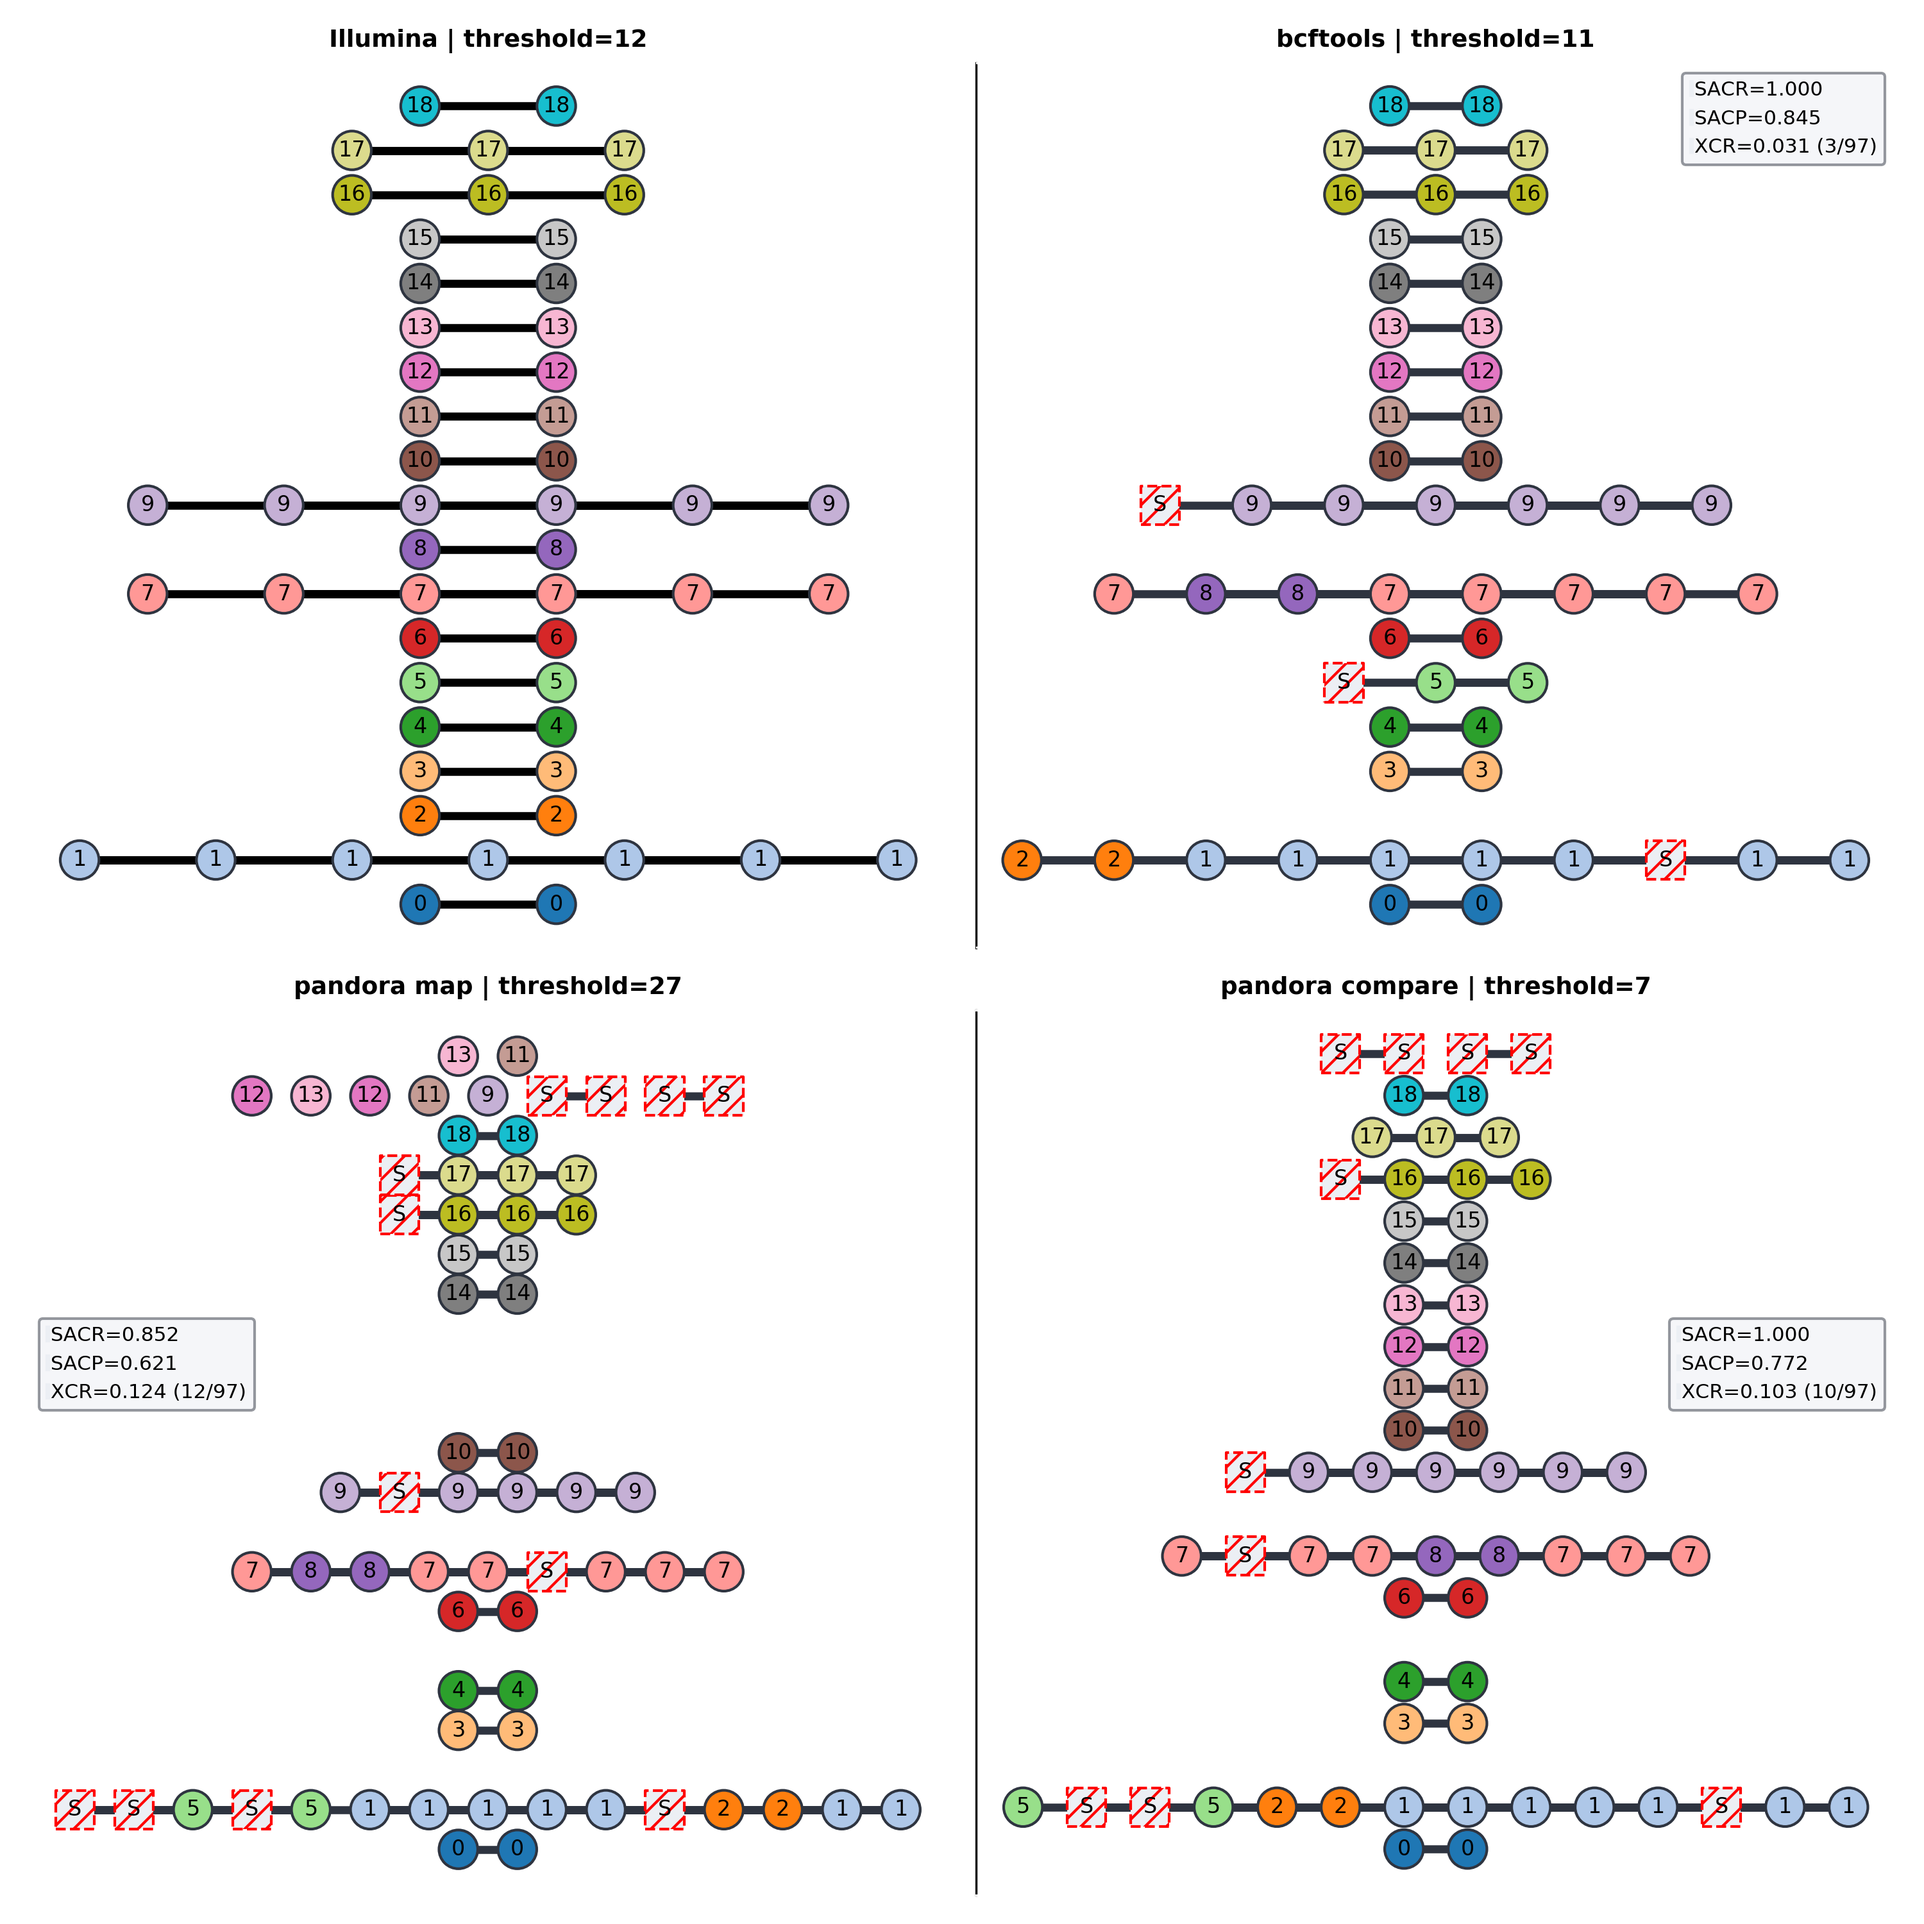
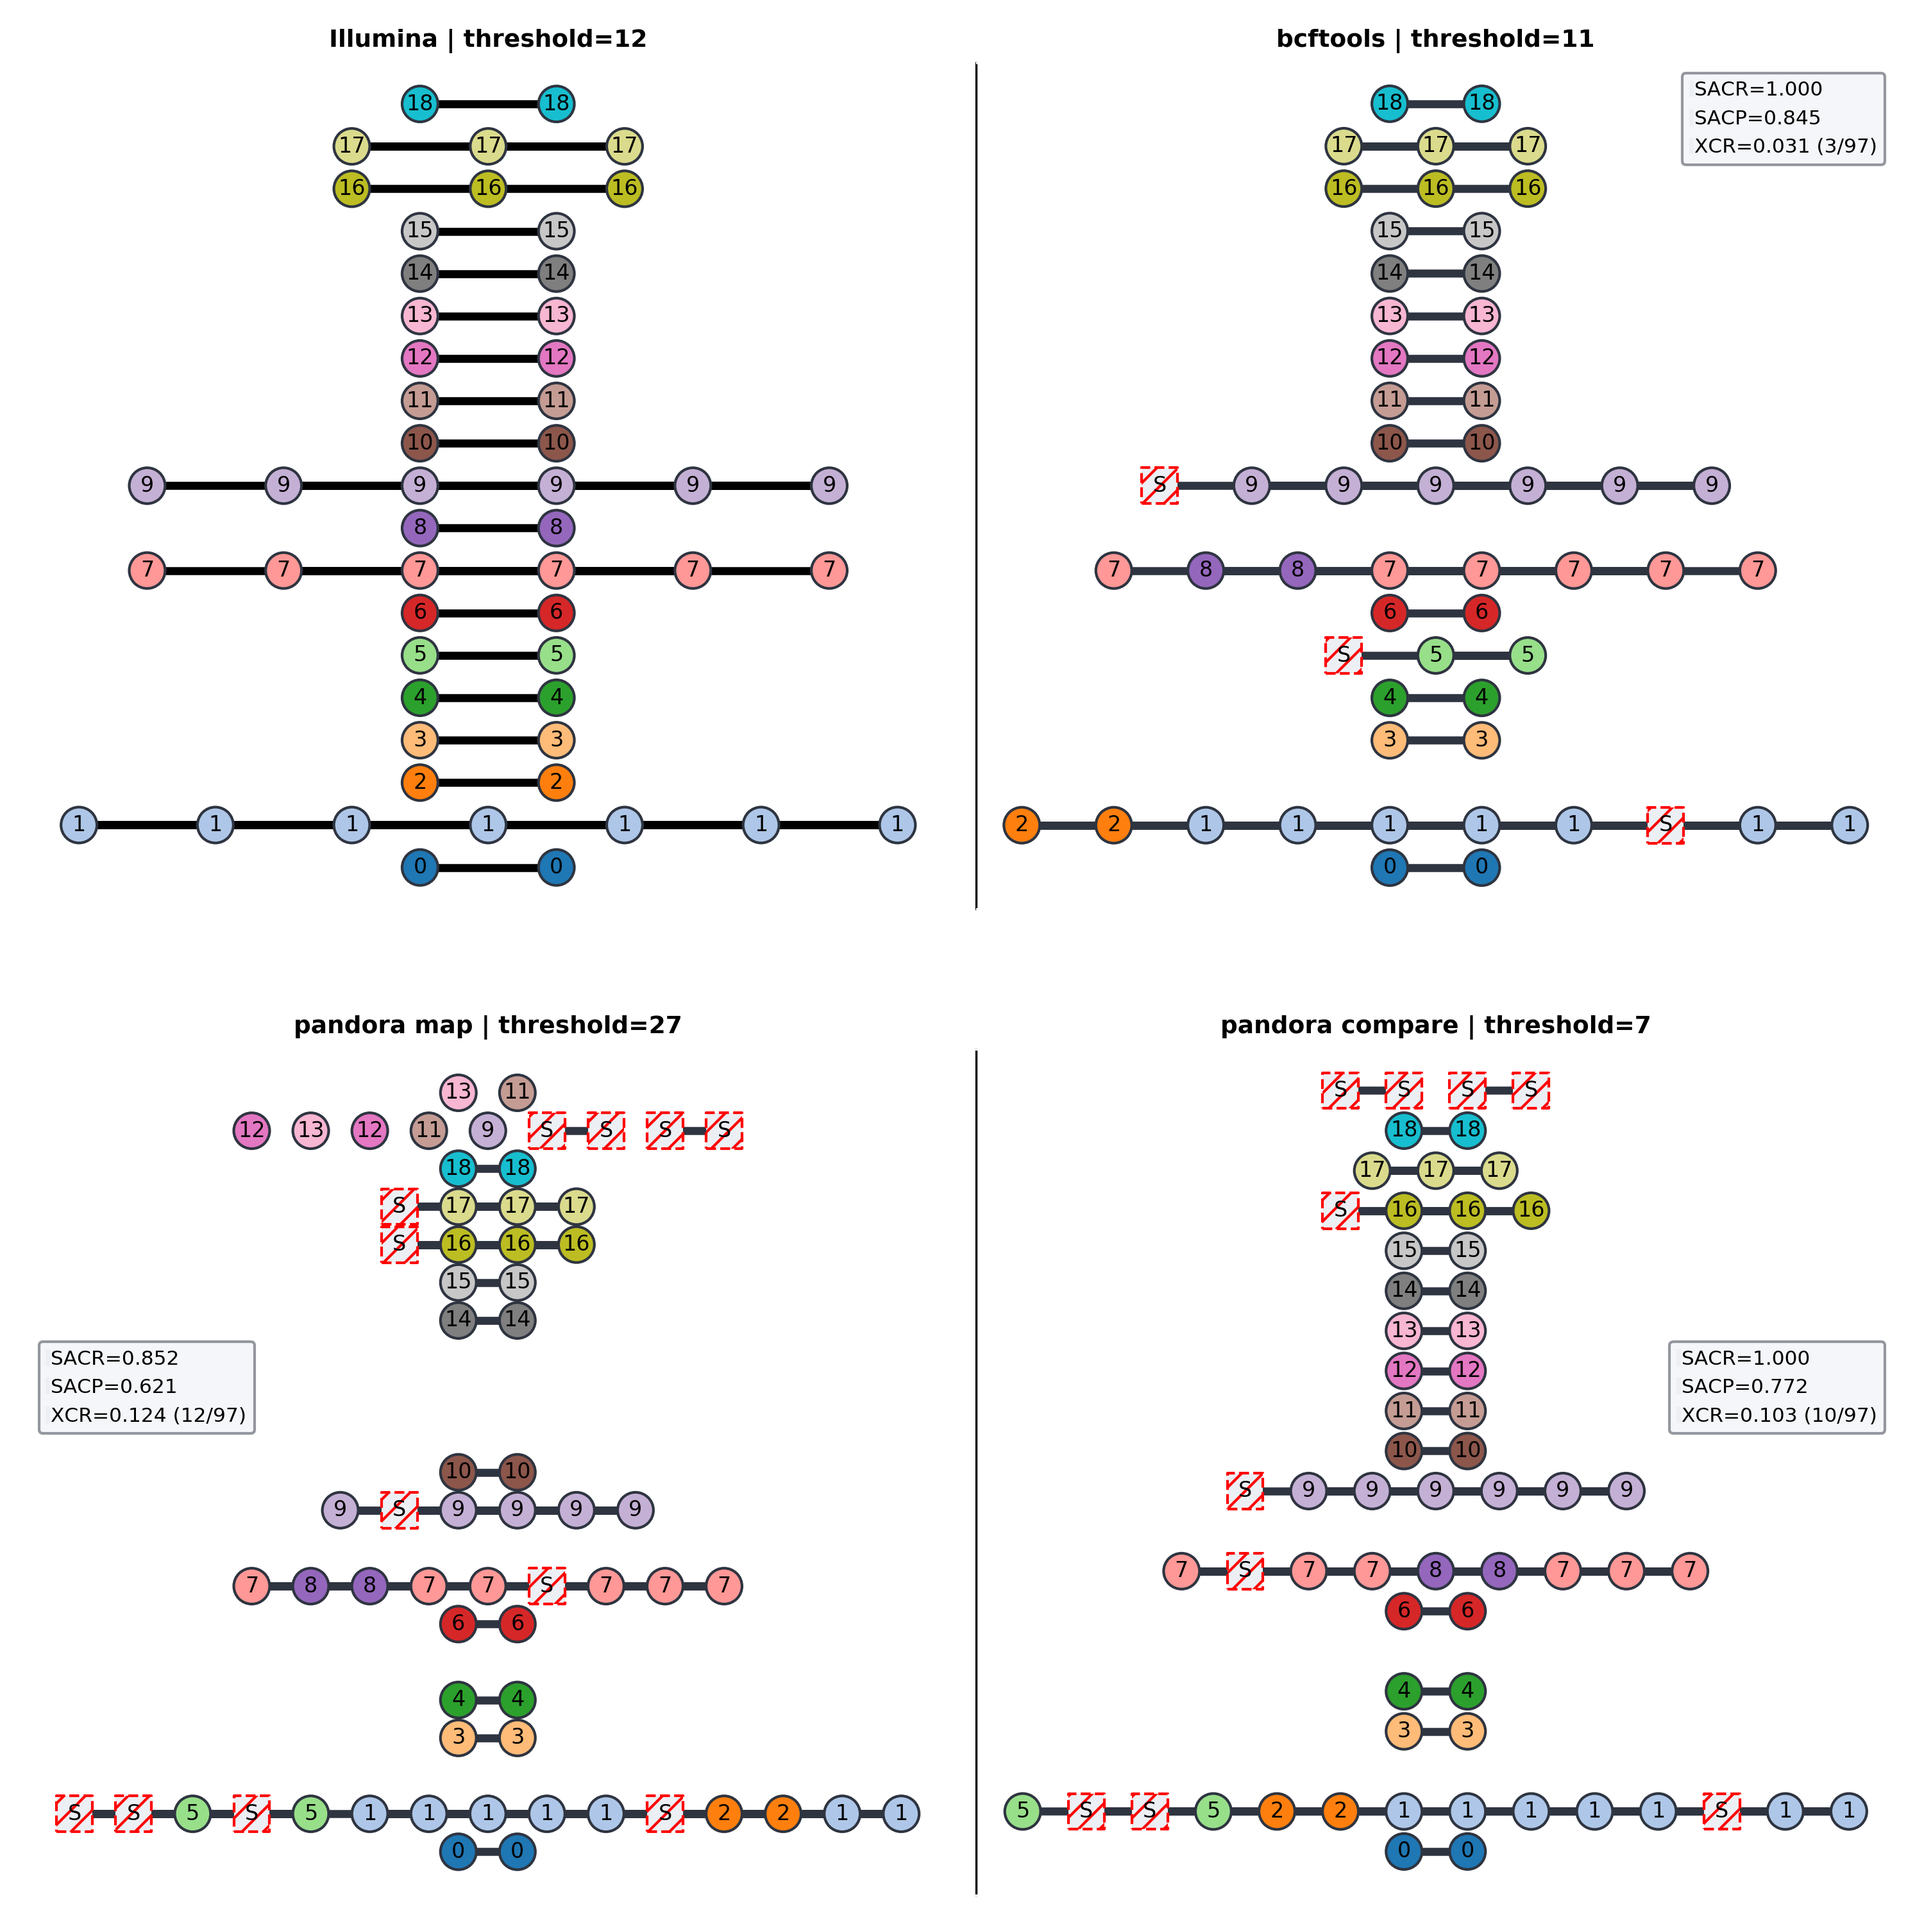
add height spacing to clustering plots [#2]

diff --git a/Chapter4/chapter4.tex b/Chapter4/chapter4.tex
@@ -341,7 +341,7 @@ Comparing the latest version used by Wick \etal{}, \guppy{}'s default model has 
 \noindent
 The improved results from our species-specific basecalling model are not surprising given the previous work by Wick \etal{} \cite{wick2019}. However, it does raise the question of what data is used to train the default \guppy{} models. Information about the species used is not readily available to users, which is disappointing given the impact on the results. As we have seen, the most recent \guppy{} version (4.4.0) did not yield the highest accuracy, leading us to wonder whether there was a shift in the species and abundances used for training in the more recent version.
 
-While we appreciate that training a general model with all knowns species is not possible, providing a list of those used would alert users to whether their species of interest might require a taxon-specific model.
+While we appreciate that training a general model with all known species is not possible, providing a list of those used would alert users to whether their species of interest might require a taxon-specific model.
 
 Ultimately the \ont{} community may be better served by sharing species-specific basecalling models. An important caveat here, though, is that regular benchmarks, like those maintained by Wick \etal{} \cite{wick2019,wick2020}, would be necessary whenever a new \guppy{} version is released. 
 
